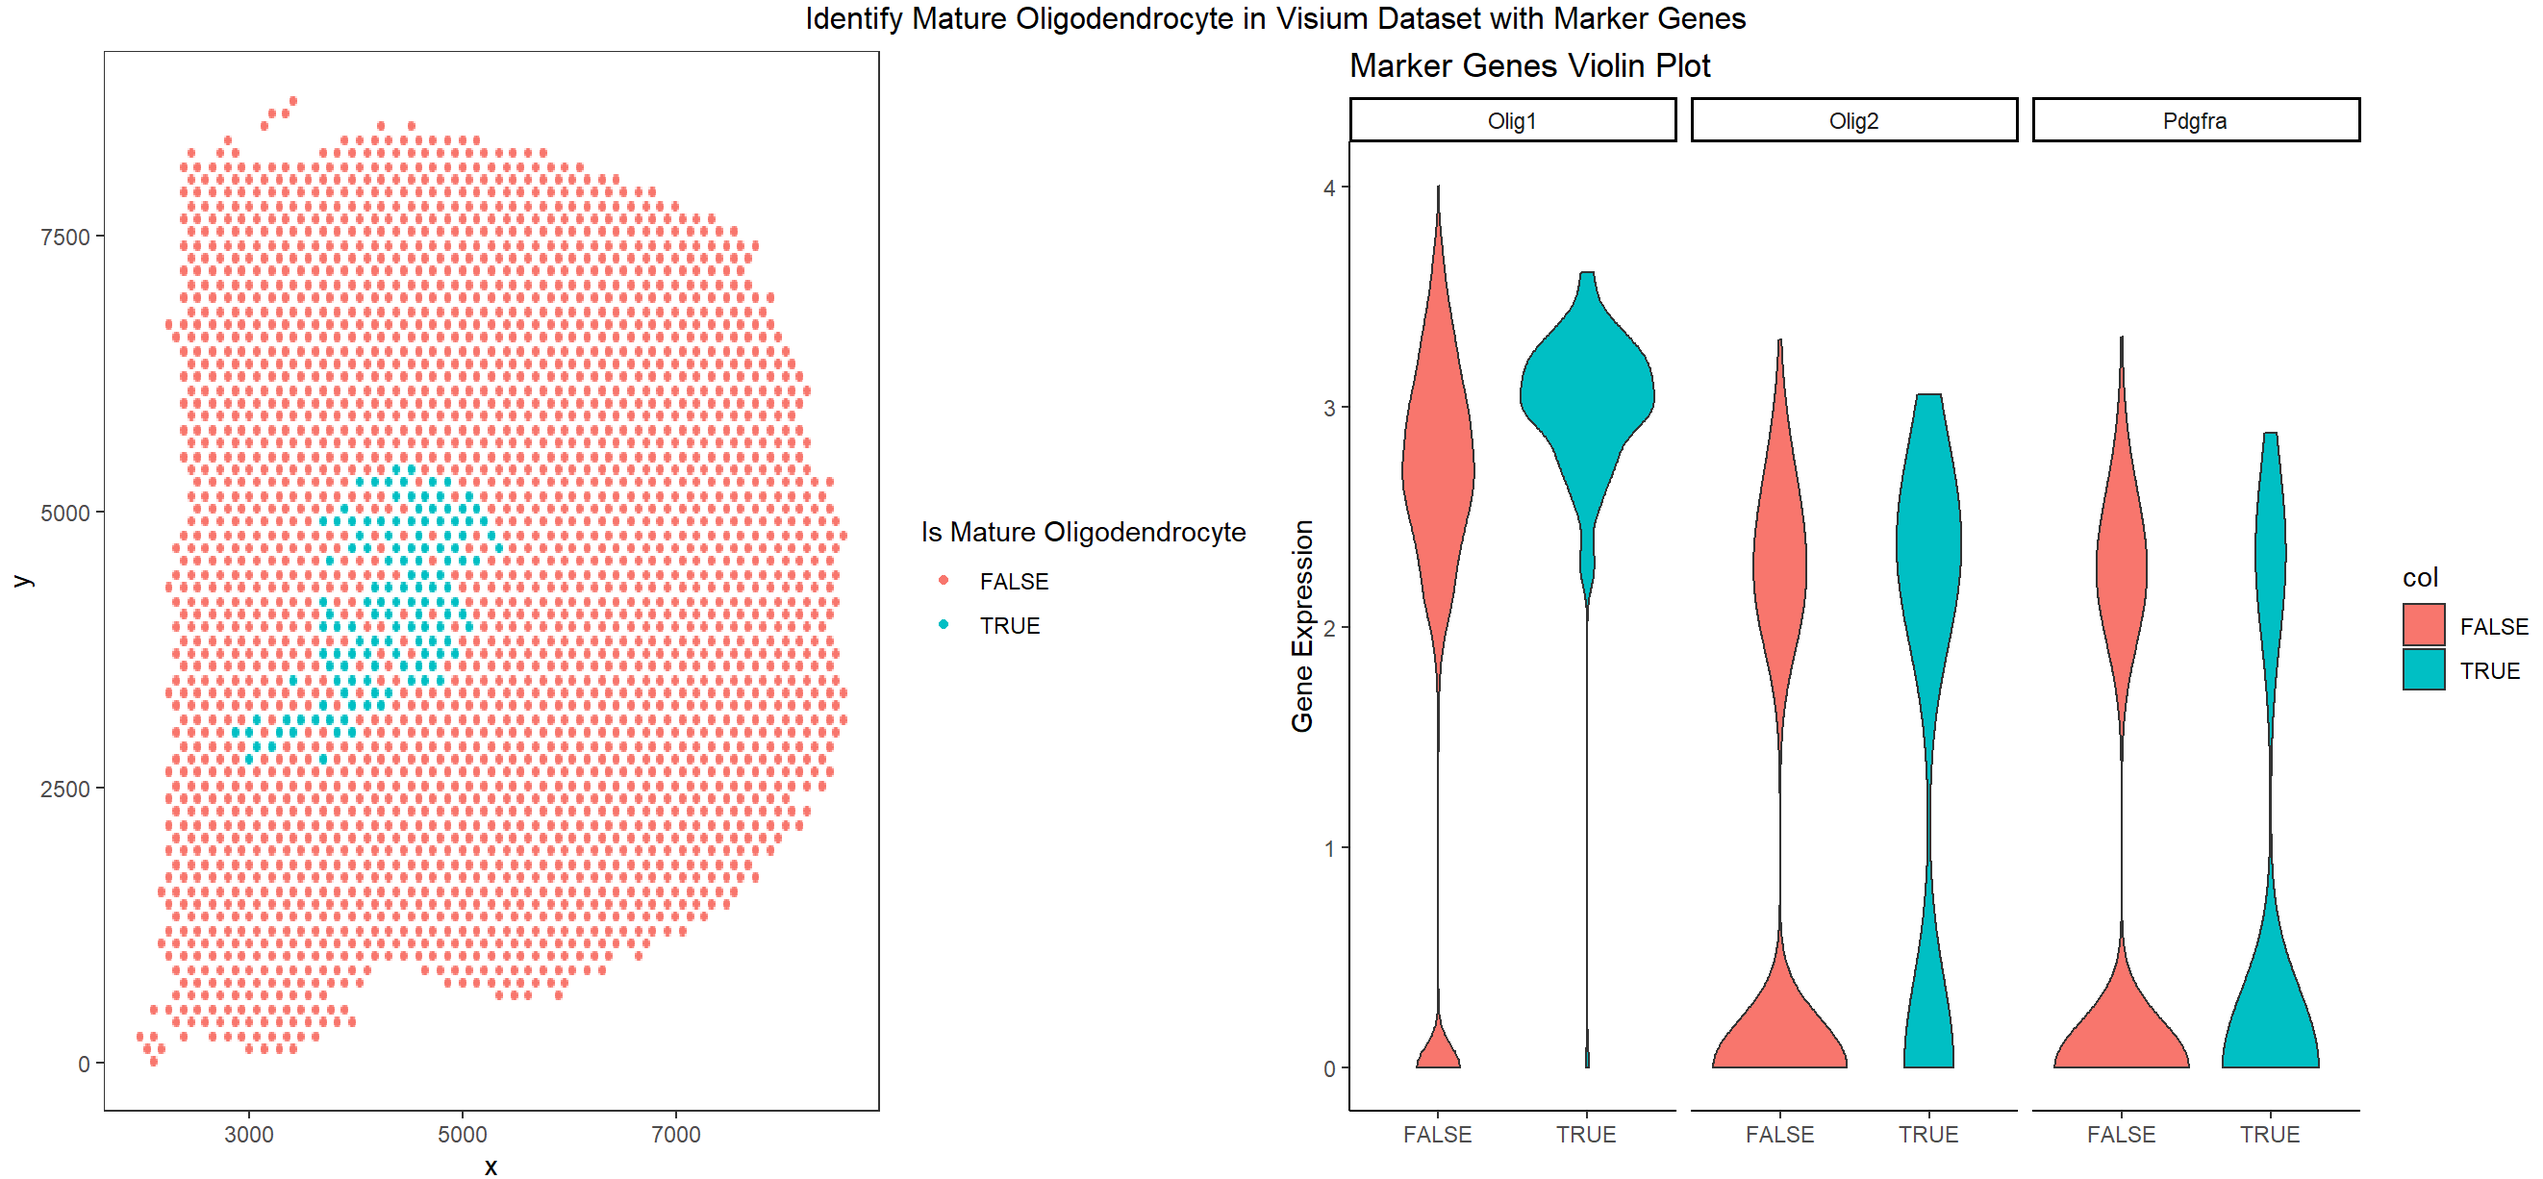
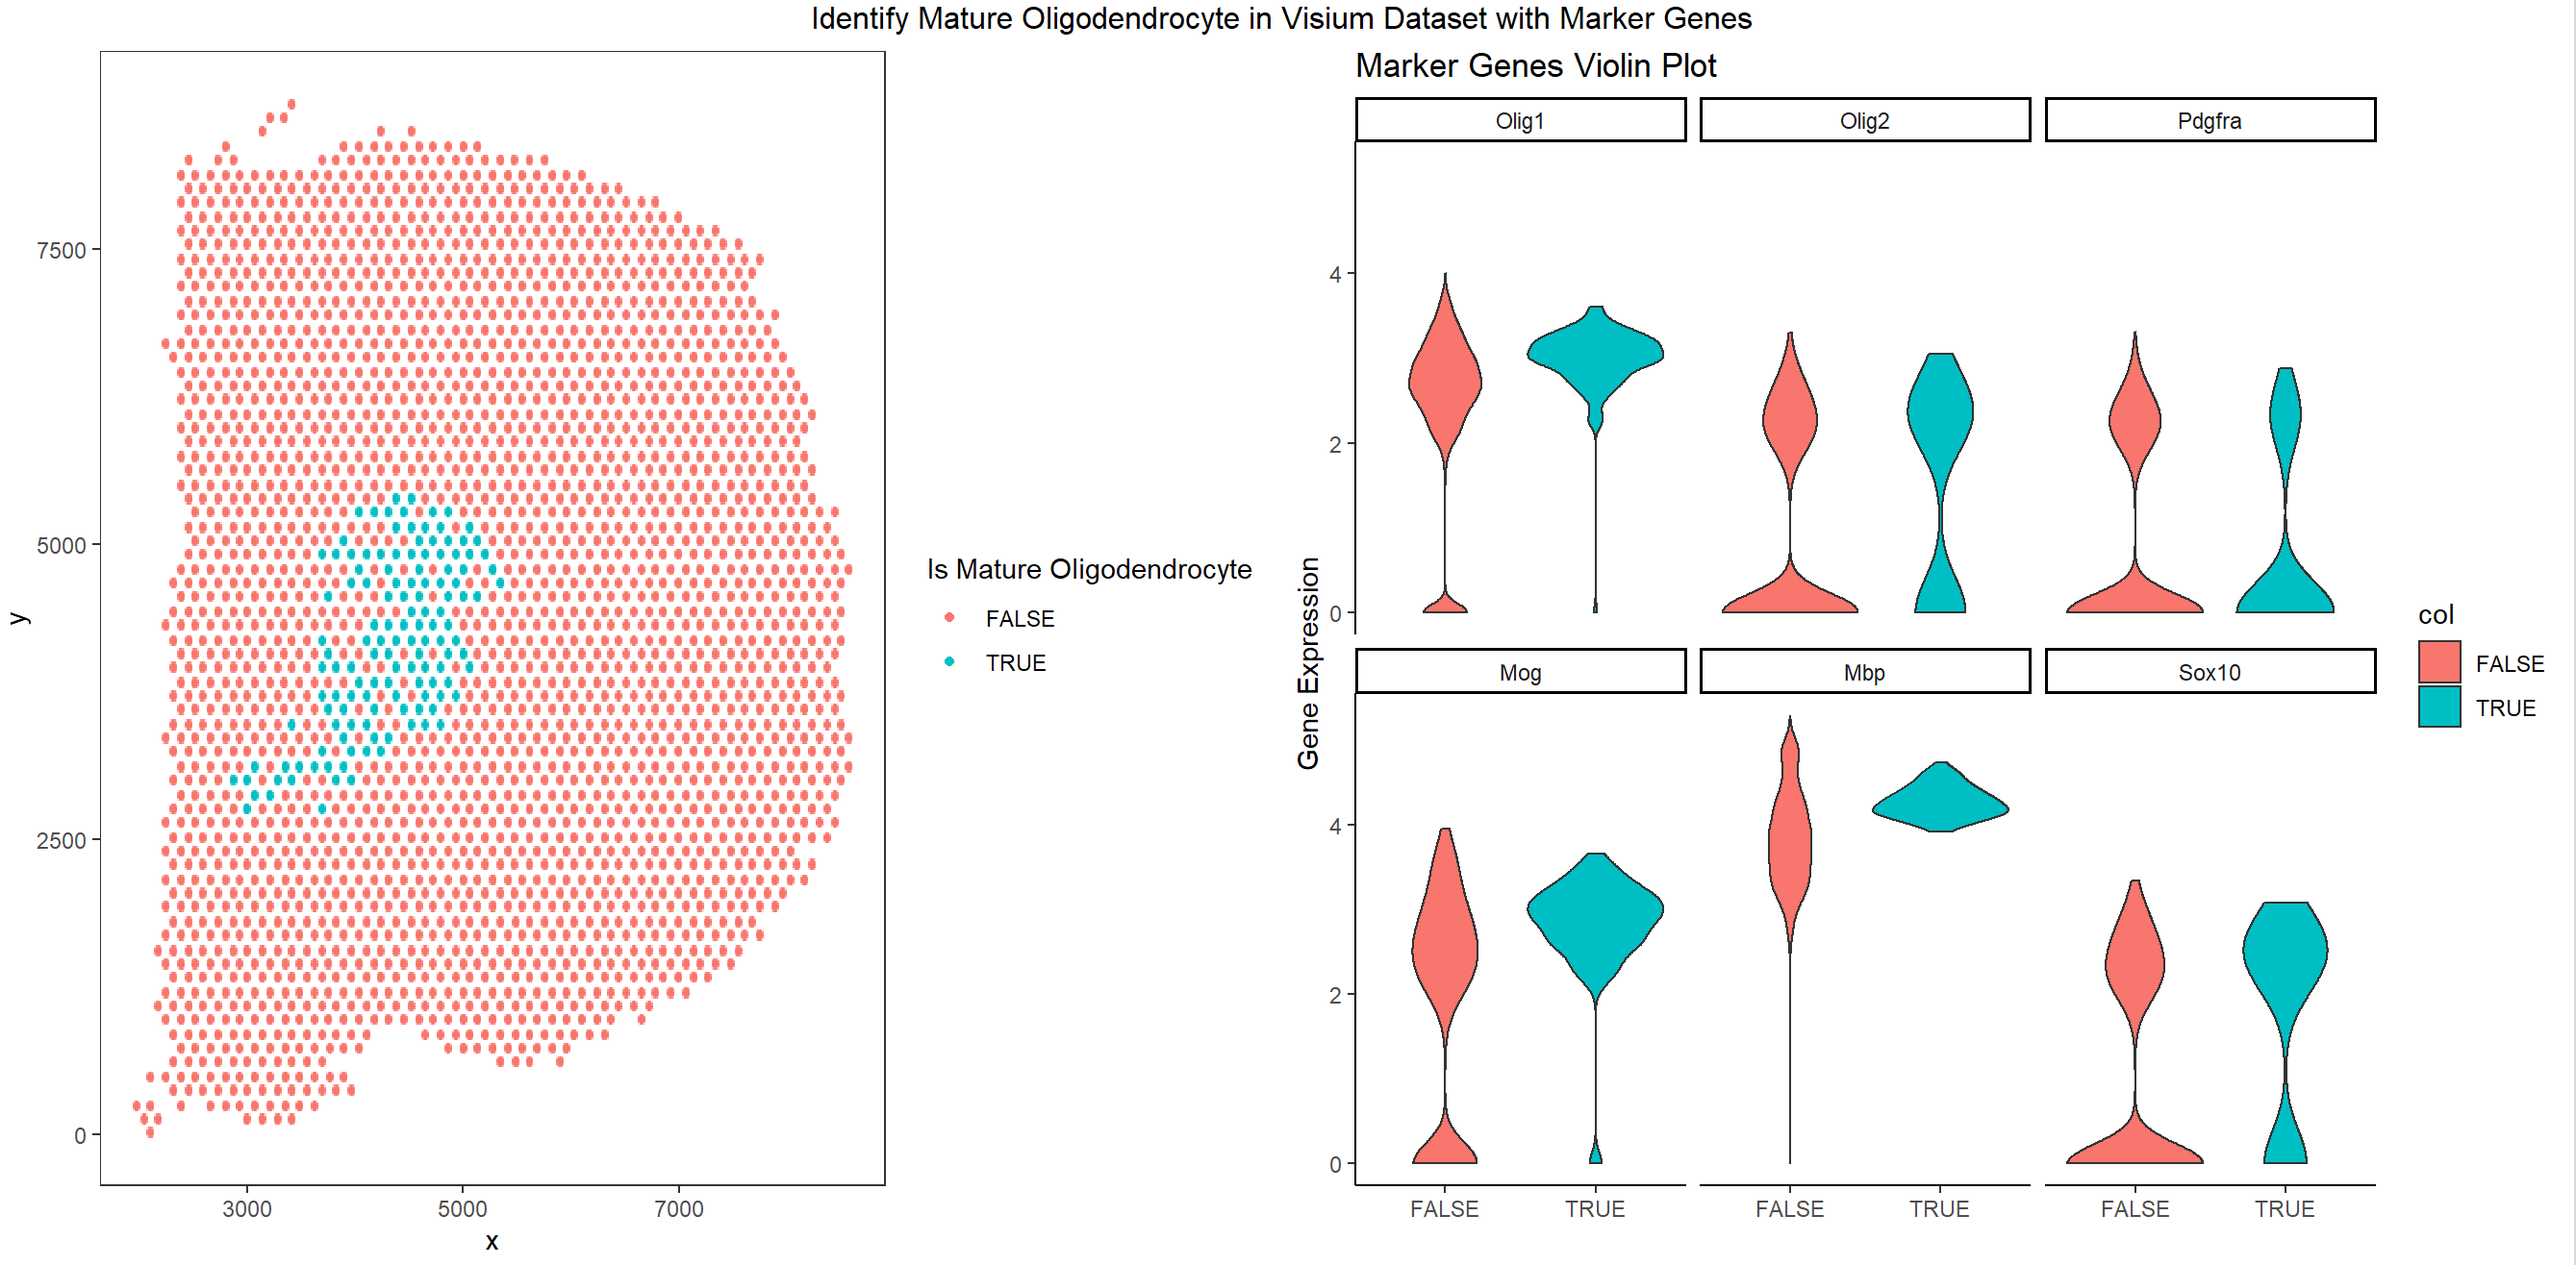
Update HW4

diff --git a/_posts/2022-02-17-yzhan354.md b/_posts/2022-02-17-yzhan354.md
@@ -12,7 +12,7 @@ This code tries to find optimal k that clusters the gene so that one cluster has
 
 We find a group of cells that satisfy this condition and the cells are plotted showing the spatial distribution of mature oligodendrocyte. 
 
-The gene expression violin plot is also shown in the plot on the right. We can see that the cells we selected has higher expression of Oligo1 in average. More cells have relatively higher Oligo2 expression, and more cells have relatively lower Pdgfra expression. Therefore, the group of cells are likely to be mature Pdgfra. 
+The gene expression violin plot is also shown in the plot on the right. We can see that the cells we selected has higher expression of Oligo1 in average. More cells have relatively higher Oligo2 expression, and more cells have relatively lower Pdgfra expression. The other 3 genes: Mog, Mbp, and Sox10 are also highly expressed in those cells. Therefore, the group of cells are likely to be mature Oligodendrocyte. 
 
 ```R
 library(ggplot2)
@@ -80,6 +80,12 @@ df <- reshape2::melt(
              col=as.factor(cells_interest)))
 
 # Visualize Marker Genes
+df <- reshape2::melt(
+  data.frame(id=rownames(visium_data_gene_normal), 
+             visium_data_gene_normal[, c('Olig1', 'Olig2', 'Pdgfra', 'Mog', 'Mbp', 'Sox10')], 
+             col=as.factor(cells_interest)))
+
+# Visualize Marker Genes
 p2 = ggplot(data = df, 
        mapping = aes(x=col, y=value, fill=col)) + 
   geom_violin() + 
@@ -87,7 +93,7 @@ p2 = ggplot(data = df,
   facet_wrap(~ variable) + ggtitle("Marker Genes Violin Plot") +
   ylab("Gene Expression") + xlab("") + labs(color = "Is Mature Oligodendrocyte")
 
-png("~/genomic-data-visualization/homework/hw4/yuqiz.png", width = 900, height = 500)
+png("~/genomic-data-visualization/homework/hw4/yuqiz.png", width = 1200, height = 500)
 grid.arrange(p1, p2, ncol = 2, 
              top = "Identify Mature Oligodendrocyte in Visium Dataset with Marker Genes")
 dev.off()
